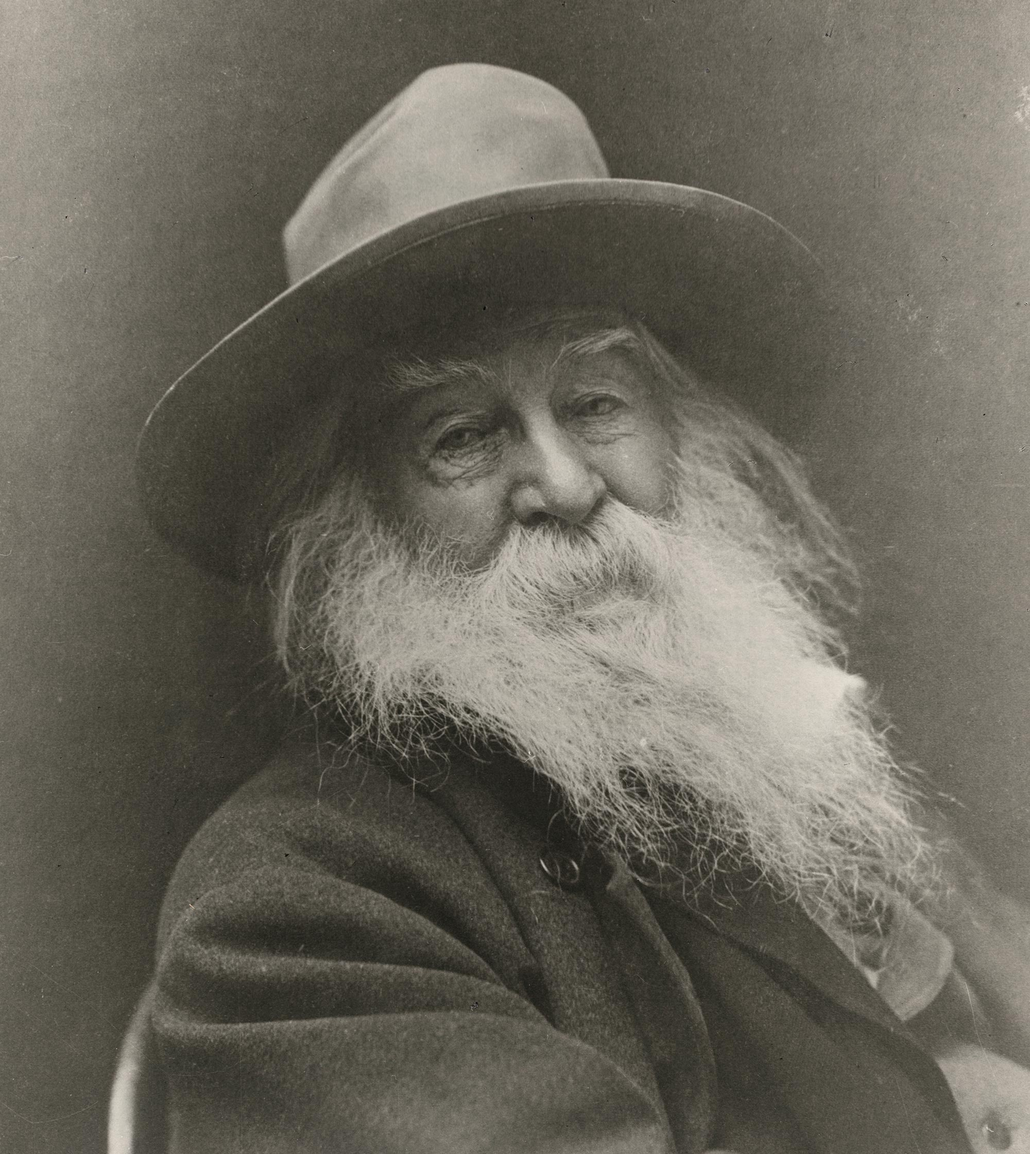
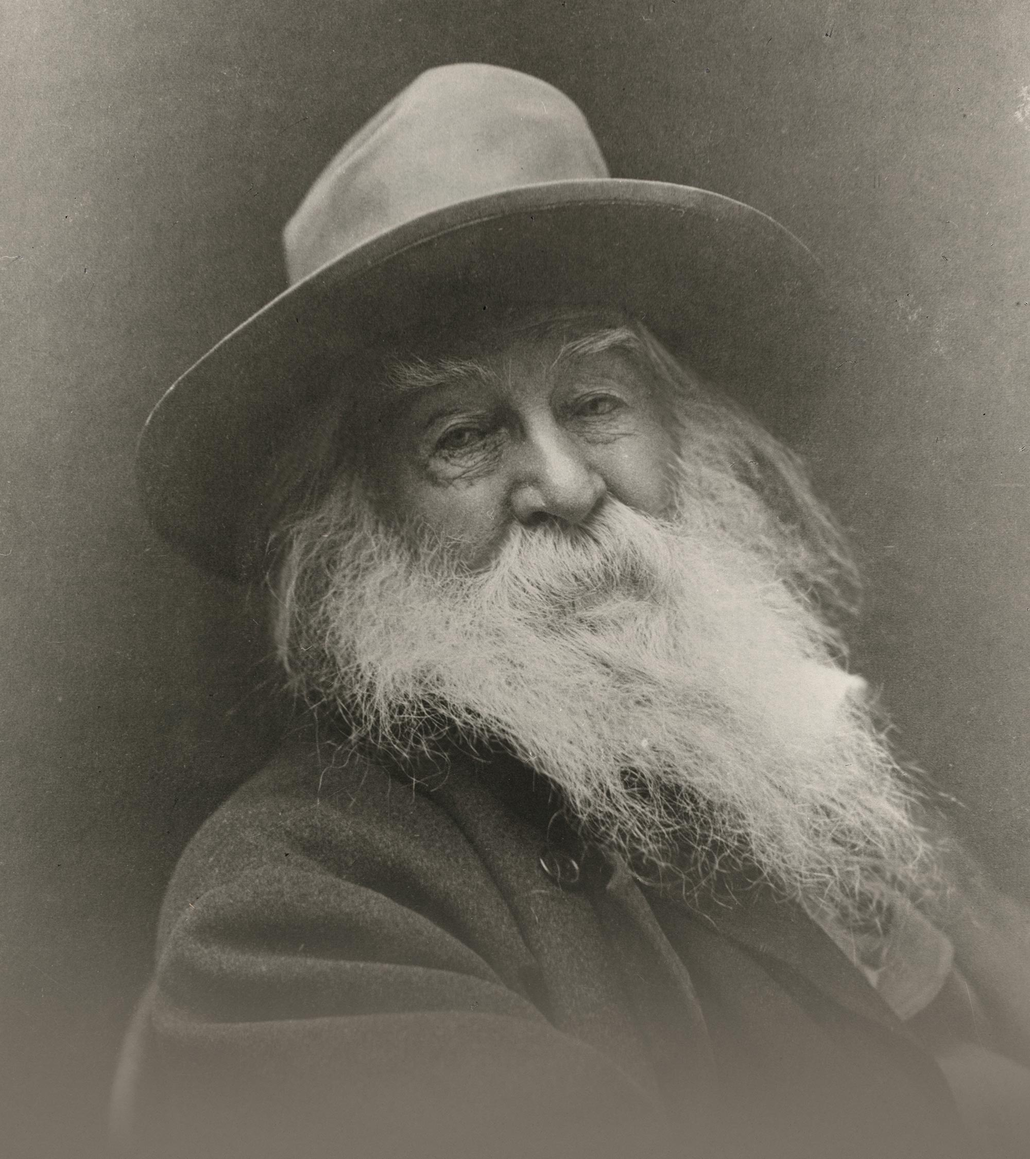
Responsive scaling walt.

diff --git a/source/stylesheets/all.css.scss b/source/stylesheets/all.css.scss
@@ -9,11 +9,14 @@ $fancyFont: "ltc-bodoni-175", serif;
 $lightColor: white;
 $darkColor: #999;
 
+html {
+  background: url(image-path('walt-felt.jpg'));
+}
+
 body {
   padding: 0;
 
-  background: #57544a url(image-path('big-beard-walt.jpg')) center top no-repeat;
-  background-size: 1000px 1119px;
+  background: #787065 url(image-path('walt-felt.jpg'));
   color: $lightColor;
 
   font-family: $fancyFont;
@@ -21,9 +24,16 @@ body {
   line-height: 28px;
 }
 
+.wrapper {
+  background: url(image-path('big-beard-walt.jpg')) center top no-repeat;
+  background-size: 100% auto;
+  min-height: 100%;
+}
+
 .container {
+  // position: relative;
   margin: 0 auto;
-  width: 640px;
+  max-width: 640px;
 }
 
 .push {
@@ -42,14 +52,20 @@ a {
 }
 
 h1 {
-  margin: 0 0 372px 0;
-  padding-top: 145px;
+  position: absolute;
+  top: 2vw;
+  height: 20vw;
+  width: 64vw;
+  margin-left: 50vw;
+  left: -32vw;
+  // margin: 0 auto;
+  // padding-top: 145px;
 
   font-family: $fancyFont;
   font-weight: normal;
   font-size: 60px;
-  @include replace-text(image-path('lorem-whitman-logo.png'), center, bottom);
-  background-size: 600px 107px;
+  @include replace-text(image-path('lorem-whitman-logo.png'), center, top);
+  background-size: 100% auto;
 
   a {
     text-decoration: none;
@@ -60,7 +76,15 @@ h3 {
   margin-top: 48px;
 }
 
+.mustache-aligner {
+  height: 51vw;
+  content: '.';
+  color: transparent;
+}
+
 .samples {
+  max-width: 640px;
+  padding: 0 24px;
   list-style: none;
 
   p {
